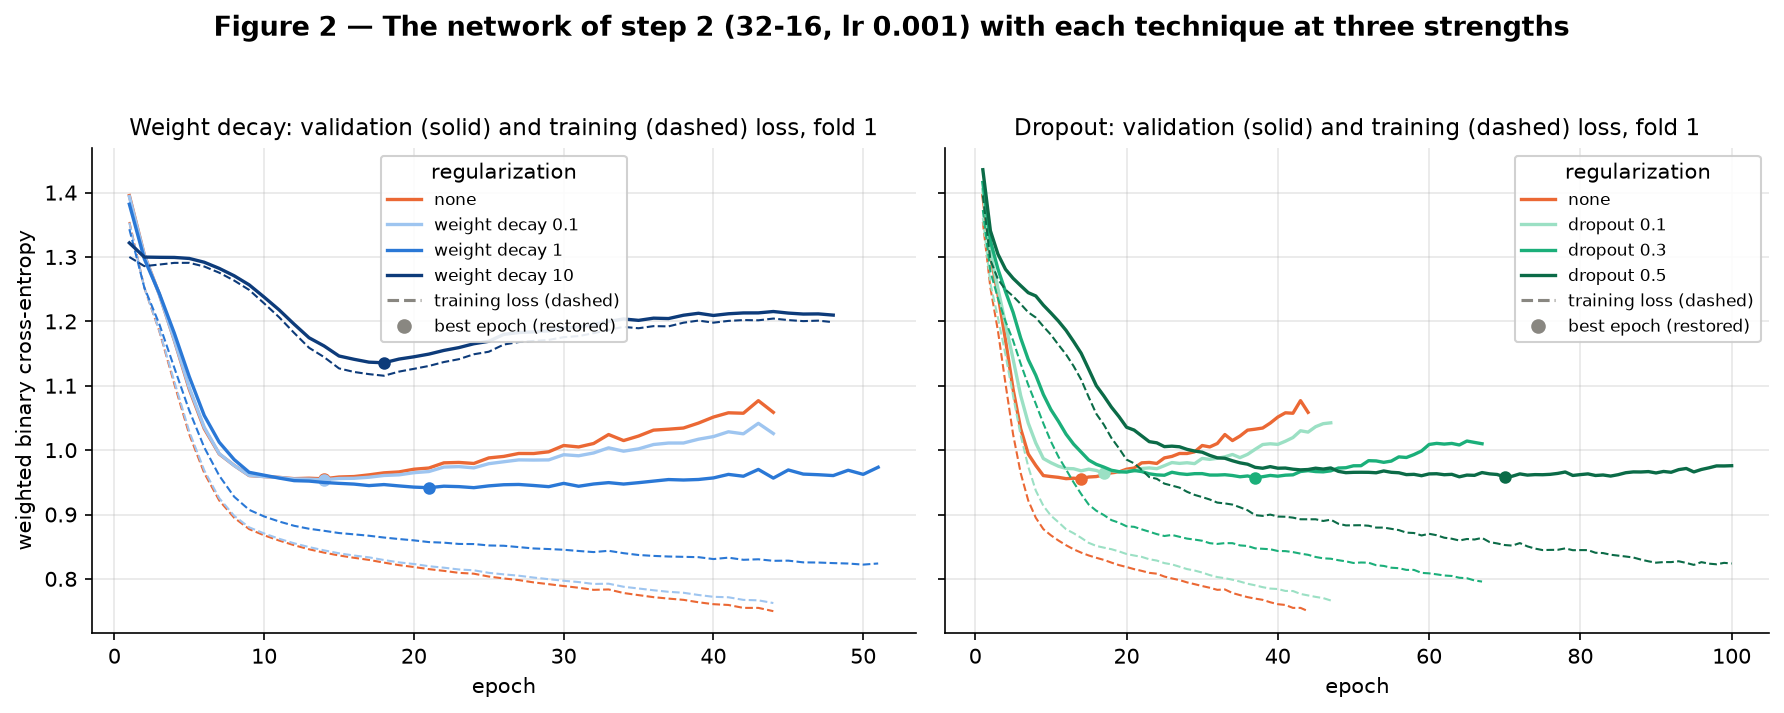
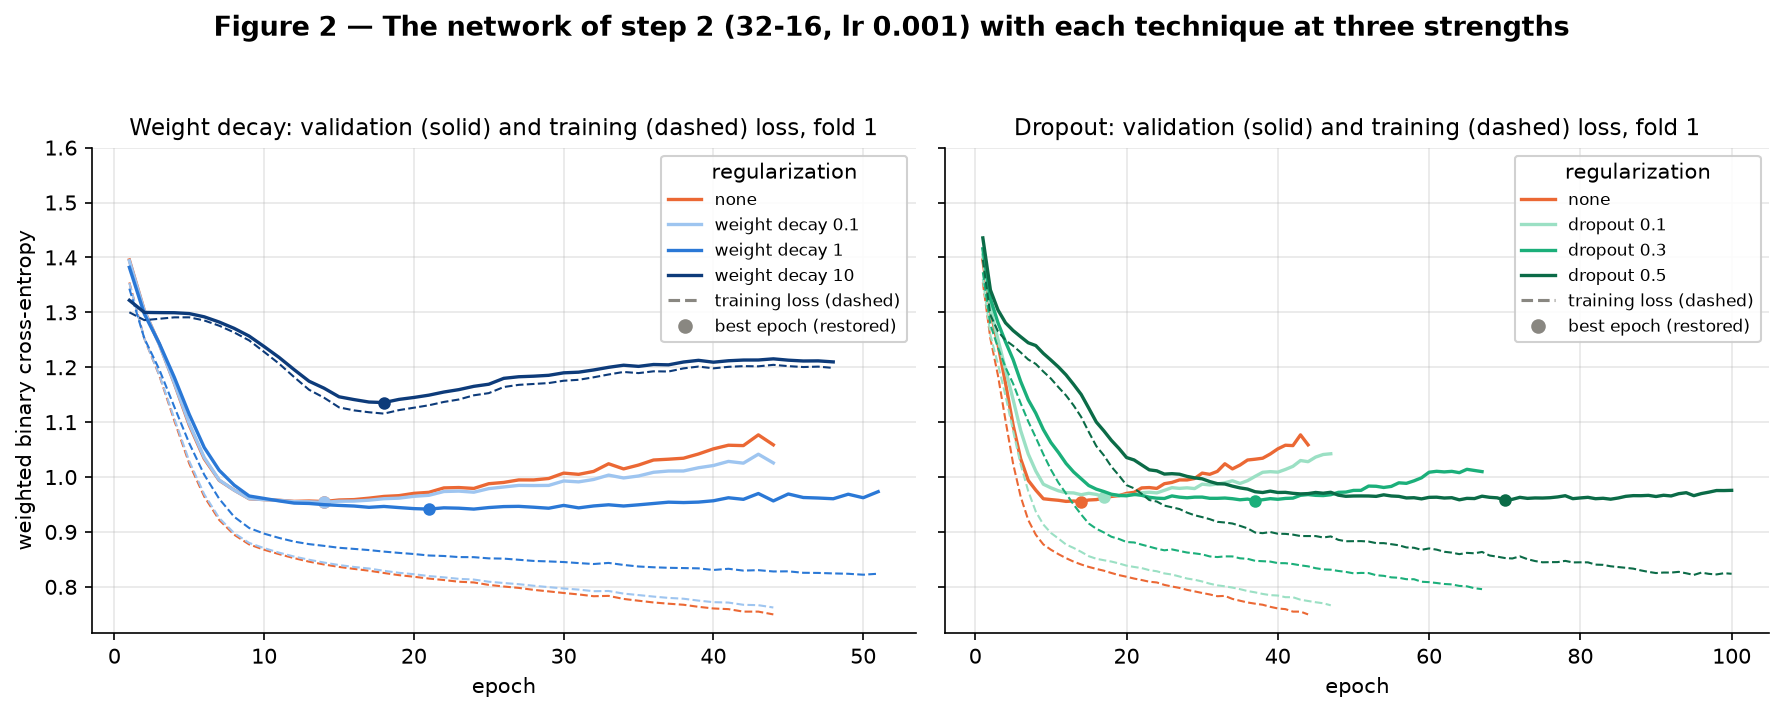
Classification: step 4 conclusions worded precisely, Figure 2 legends clear of the curves; projects page lists only the delivered projects

diff --git a/docs/projects/classification/code/check_report.py b/docs/projects/classification/code/check_report.py
@@ -162,7 +162,7 @@ def main():
                              f"{f4(ap_of[('16', 0.001, 'weight decay 1')])} at lr 10⁻³, and from "
                              f"{f4(ap_of[('16', 0.003, 'none')])} to {f4(ap_of[('16', 0.003, 'weight decay 1')])}"
                              if max(decay_gain[("16", r)] for r in (0.001, 0.003)) < 0 else "<16 units gain>",
-        "one SE": f"{f4(top['AP (mean)'])} - {f4(top['AP (sd)'])}/√{N_FOLDS} = {search['one_se_threshold']:.4f}",
+        "one SE": f"{f4(top['AP (mean)'])} - {f4(top['AP (sd)'])}/√{N_FOLDS} ≈ {search['one_se_threshold']:.4f}",
         "smallest within one SE": f"Of these {search['n_within_one_se']}, {len(smallest)} have the smallest size, "
                                   f"{eligible.min()} parameters",
         "steps of the final retraining": f"an epoch has {steps_final} mini-batches instead of "

diff --git a/docs/projects/classification/code/search.py b/docs/projects/classification/code/search.py
@@ -116,6 +116,7 @@ def plot_regularization(runs):
         ax.set(title=f"{technique}: validation (solid) and training (dashed) loss, fold 1", xlabel="epoch")
         ax.legend(title="regularization")
     axes[0].set_ylabel("weighted binary cross-entropy")
+    axes[0].set_ylim(top=1.6)   # headroom so the legends cover no curve (the y axis is shared)
     save_figure(fig, 2, f"The network of step 2 ({layers(DEFAULT)}, lr {DEFAULT['lr']:g}) with each technique at "
                         "three strengths")
 

diff --git a/docs/projects/classification/index.md b/docs/projects/classification/index.md
@@ -146,9 +146,9 @@ The training loop is `train()` in `code/network.py`, listed in step 2; the curve
 
 ## 4. Regularization and hyperparameters
 
-**Two techniques against none, each at three strengths.** Weight decay (decoupled, AdamW) at λ = 0.1, 1 and 10, and dropout after each hidden ReLU at p = 0.1, 0.3 and 0.5, are compared with the plain network on the same folds and seed; an eighth variant combines the middle strengths. The decay applies to the weight matrices only: the course recommends leaving the biases out, since they shift the activations rather than scale them. The dropout rates bracket the course's range for fully connected layers (p = 0.2–0.5). The decay strengths go beyond its 0.01–0.1 for AdamW, given for long Transformer trainings: AdamW multiplies the weights by (1 − lr × λ) at every step, and with lr 10⁻³ and early stopping after a few hundred steps, λ = 0.1 leaves them almost untouched (last column of Table 5).
+**Two techniques against none, each at three strengths.** Weight decay (decoupled, AdamW) at λ = 0.1, 1 and 10, and dropout after each hidden ReLU at p = 0.1, 0.3 and 0.5, are compared with the plain network on the same folds and seed; an eighth variant combines the middle strengths. The decay applies to the weight matrices only: the course recommends leaving the biases out, since they shift the activations rather than scale them. The dropout rates run from just below the course's range for fully connected layers (p = 0.2–0.5) to its top. The decay strengths start at the top of its 0.01–0.1 for AdamW, given for Transformers, which train for far more steps, and go beyond it: AdamW multiplies the weights by (1 − lr × λ) at every step, and with lr 10⁻³ and the weights restored after a few hundred steps, λ = 0.1 leaves them almost untouched (last column of Table 5).
 
-**Table 5 — The network of step 2 (32-16, lr 0.001) with each regularization (5 validation folds; the loss gap is at the restored epoch).**
+**Table 5 — The network of step 2 (32-16, lr 0.001) with each regularization (5 validation folds; the loss gap is at the restored epoch).** The last column is (1 − lr × λ) raised to the number of steps up to the median restored epoch, at 26 mini-batches per epoch.
 
 | regularization | AP (mean) | AP (sd) | ROC-AUC (mean) | best epoch (median) | validation − training loss | weights kept by the decay |
 |---|---|---|---|---|---|---|
@@ -161,18 +161,18 @@ The training loop is `train()` in `code/network.py`, listed in step 2; the curve
 | dropout 0.5 | 0.1721 | 0.0266 | 0.8319 | 70 | 0.1092 | 1.0000 |
 | weight decay 1 + dropout 0.3 | 0.1899 | 0.0396 | 0.8386 | 43 | 0.0585 | 0.3268 |
 
-![Figure 2 — The network of step 2 with each regularization](figures/fig2.png)
+![Figure 2 — The network of step 2 with each technique at three strengths](figures/fig2.png)
 /// caption
 Figure 2 — Fold 1: validation (solid) and training (dashed) loss of the network of step 2 with weight decay (left) and dropout (right) at three strengths each, next to the network without regularization; dots mark the restored epoch.
 ///
 
-**Conclusion — Figure 2.** **Weight decay at λ = 1 is the only variant that regularizes without underfitting; dropout does not help at any rate.**
+**Conclusion — Figure 2.** **Weight decay at λ = 1 is the only variant that clearly narrows the loss gap without lowering the validation AP; dropout brings no measurable gain at any rate.**
 
 - *Weight decay 0.1 barely acts.* By the median restored epoch the decay factor alone leaves the weights 0.9593 of their size (the gradient steps move them too), and the network is almost unchanged (validation AP 0.1951 against 0.1933).
 - *Weight decay 1 regularizes.* The factor falls to 0.5944, the gap between validation and training loss at the restored epoch narrows from 0.1018 to 0.0720, and the validation AP rises to 0.2038, the best of the eight variants, although the gain over the plain network (0.0105) is smaller than the fold-to-fold standard deviation. In fold 1 (left) its validation loss barely rises after its minimum, while its training loss stays above the unregularized one.
 - *Weight decay 10 is too strong.* The factor reaches 0.0015, the two losses meet at a high level (gap 0.0062) and the AP falls to 0.1814: the network underfits.
-- *Dropout costs AP.* At 0.1 it changes little (0.1957); at 0.3 and 0.5 it slows the training (median best epochs 39 and 70, against 16) and lowers the AP (0.1693 and 0.1721) without narrowing the loss gap (0.1177 and 0.1092). *A likely reading:* the course notes that dropout is a technique for networks with capacity to spare, and with 32 and 16 units there is little redundancy for a third or a half of them to disappear at each step.
-- *Both together.* Weight decay 1 with dropout 0.3 has the narrowest loss gap of the variants that do not underfit (0.0585) and the best ROC-AUC (0.8386), but its AP, 0.1899, stays below weight decay 1 alone.
+- *Dropout above 0.1 costs AP.* At 0.1 it changes little (0.1957); at 0.3 and 0.5 it slows the training (median best epochs 39 and 70, against 16) and lowers the AP (0.1693 and 0.1721) without narrowing the loss gap (0.1177 and 0.1092). In fold 1 (right), dropout 0.3 and 0.5 keep the validation loss flat after its minimum, but that minimum is no lower than the plain network's. *A likely reading:* the course notes that dropout is a technique for networks with capacity to spare, and with 32 and 16 units there is little redundancy for a third or a half of them to disappear at each step.
+- *Both together.* Weight decay 1 with dropout 0.3 has the narrowest loss gap of the variants that do not underfit (0.0585) and the best ROC-AUC (0.8386), but its AP, 0.1899, stays below weight decay 1 alone and below the plain network (0.1933).
 
 **The search.** 48 configurations — two learning rates (10⁻³, 3 × 10⁻³) × three architectures (16, 32-16, 64-32) × the eight regularization variants — each trained with early stopping on the 5 folds:
 
@@ -229,8 +229,8 @@ Figure 2 — Fold 1: validation (solid) and training (dashed) loss of the networ
 | 47 | 0.001 | 16 | weight decay 10 | 401 | 0.1647 | 0.0223 | 0.7951 | 57 |  |  |
 | 48 | 0.003 | 16 | weight decay 10 | 401 | 0.1642 | 0.0254 | 0.7990 | 29 |  |  |
 
-- **The selection rule.** The best mean AP is 0.2038, for the 32-16 network with weight decay 1 at lr 10⁻³, but the top configurations differ by less than their noise: 26 of the 48 are within one standard error of it (0.2038 − 0.0417/√5 = 0.1851). The one-standard-error rule picks, among those, the network with the fewest parameters, and among networks of equal size the one with the highest mean AP. Of these 26, 14 have the smallest size, 401 parameters, and the best of them is **one hidden layer of 16 units, learning rate 3 × 10⁻³, no weight decay and no dropout, 401 parameters** (rank 2, validation AP 0.2033 ± 0.0286, 0.0005 below the best mean), one parameter for every ten training rows. Its regularization is its size and early stopping.
-- **Weight decay helps the larger networks, not the smallest.** At λ = 1 it raises the mean AP of all four 32-16 and 64-32 networks (by 0.0007 to 0.0105, the most for the 32-16 network at lr 10⁻³, from 0.1933 to 0.2038) and lowers it for both 16-unit networks (from 0.1998 to 0.1928 at lr 10⁻³, and from 0.2033 to 0.1944 at 3 × 10⁻³); at λ = 10 the 16-unit networks rank last (47th and 48th, ROC-AUC below 0.80). Each difference is within the fold noise, but the direction is the same in every pair. All sixteen 64-32 networks rank 23rd or lower. *A likely reading:* with 199 positives, capacity beyond 16 units fits the noise of the training folds sooner (best epoch 2 for the unregularized 64-32 network at the higher learning rate) without ranking the validation patients better; weight decay can pull a 32-16 network back, but a 16-unit network has nothing to spare.
+- **The selection rule.** The best mean AP is 0.2038, for the 32-16 network with weight decay 1 at lr 10⁻³, but the top configurations differ by less than their noise: 26 of the 48 are within one standard error of it (0.2038 − 0.0417/√5 ≈ 0.1851). The one-standard-error rule picks, among those, the network with the fewest parameters, and among networks of equal size the one with the highest mean AP. Of these 26, 14 have the smallest size, 401 parameters, and the best of them is **one hidden layer of 16 units, learning rate 3 × 10⁻³, no weight decay and no dropout, 401 parameters** (rank 2, validation AP 0.2033 ± 0.0286, 0.0005 below the best mean), one parameter for every ten training rows. Its regularization is its size and early stopping.
+- **Weight decay at λ = 1 helps the larger networks, not the smallest.** At λ = 1 it raises the mean AP of all four 32-16 and 64-32 networks (by 0.0007 to 0.0105, the most for the 32-16 network at lr 10⁻³, from 0.1933 to 0.2038) and lowers it for both 16-unit networks (from 0.1998 to 0.1928 at lr 10⁻³, and from 0.2033 to 0.1944 at 3 × 10⁻³); at λ = 10 the 16-unit networks rank last (47th and 48th, ROC-AUC below 0.80). Each difference is within the fold noise, but each architecture moves the same way at both learning rates. All sixteen 64-32 networks rank 23rd or lower. *A likely reading:* with 199 positives, capacity beyond 16 units fits the noise of the training folds sooner (median best epoch 2 for the unregularized 64-32 network at the higher learning rate) without ranking the validation patients better; weight decay can pull a 32-16 network back, but a 16-unit network has nothing to spare.
 - **The number of epochs for the final model.** The chosen configuration's restored (best) epochs in the five folds are 12, 6, 6, 29 and 8 — training ran 30 epochs past each — and the final network is retrained for their median, **8 epochs**, on all 4,088 training rows (step 5), since no validation rows remain to stop on. Matching the epochs rather than the optimizer steps is a convention: on 4,088 rows an epoch has 32 mini-batches instead of 26, so the 8 epochs make 256 steps against 208 in a fold. The threshold of step 5 still transfers (Figure 5).
 
 **Table 7 — The chosen configuration with the adult BMIs below 12 set to missing (5 validation folds).** The EDA kept the two adult BMIs below 12 (probable entry errors that cannot be proven) and asked for this check.

diff --git a/docs/projects/index.md b/docs/projects/index.md
@@ -4,4 +4,3 @@ Team project deliverables. Team: Gabriel Fernando Missaka Mendes, Eduardo Takei 
 
 - [EDA — Stroke Prediction](eda/index.md) — October 25, 2026
 - [Classification — Stroke Prediction](classification/index.md) — November 13, 2026
-- Generative Models — date to be announced
